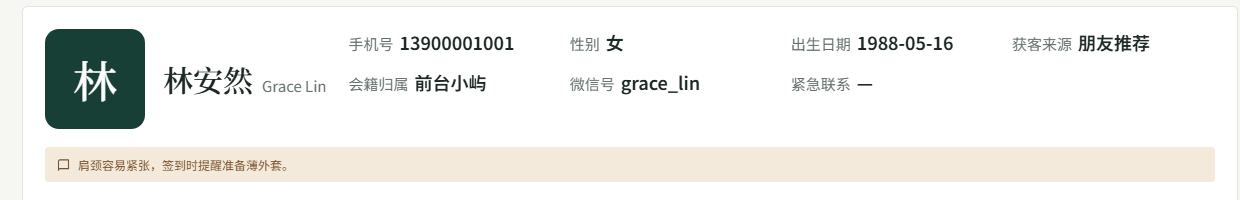
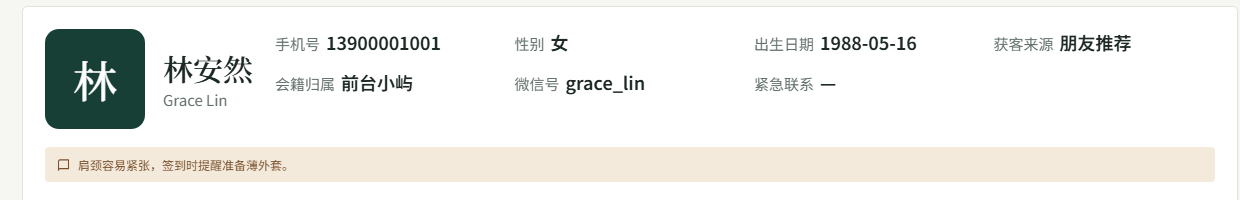
feat: 会员档案头部英文名改到中文名下方
- `.profile-head h2` 改为纵向排列，英文名从中文名右侧移到下方，标题栏宽度
  随之收窄，给右侧两行详细信息腾出更多空间。
- 同步更新操作指南、图文更新说明（含新截图）与两版更新日志、应用内更新日志。

diff --git a/public/help.html b/public/help.html
@@ -245,7 +245,7 @@
             <li><strong data-zh="上传会员照片" data-en="Add a member photo">上传会员照片</strong><span data-zh="会员档案上方点击“上传照片”即可为该会员拍照或选择图片上传，支持 PNG / JPG / WebP；照片会显示在档案头像、会员清单和前台签到名单上，便于快速认出会员。已有照片可随时删除。会员也能在会员端“我的 → 个人信息”里自行拍照上传，前台无需代劳。" data-en="Use “Upload photo” at the top of the profile to take or choose a picture (PNG / JPG / WebP). It appears on the avatar, in the member list and on the check-in roster. Photos can be removed at any time. Members can also upload their own photo under “Me → Profile”, so staff do not need to do it for them.">会员档案上方点击“上传照片”即可为该会员拍照或选择图片上传，支持 PNG / JPG / WebP；照片会显示在档案头像、会员清单和前台签到名单上，便于快速认出会员。已有照片可随时删除。会员也能在会员端“我的 → 个人信息”里自行拍照上传，前台无需代劳。</span></li>
             <li><strong data-zh="裁剪成头像的样子" data-en="Crop it to fit the avatar">裁剪成头像的样子</strong><span data-zh="选好图片后会弹出裁剪窗口：拖动照片调整位置，用滑块放大或缩小，方框里就是保存后头像的取景。确认后照片按方形保存，头像、会员清单与签到名单显示完全一致，不会把人脸或身体裁掉一半。" data-en="A crop window opens after you pick a picture: drag it to reposition and use the slider to zoom, and the frame shows exactly how the avatar will look. The photo is saved as a square, so the avatar, the member list and the check-in roster all show the same framing instead of cutting off a face.">选好图片后会弹出裁剪窗口：拖动照片调整位置，用滑块放大或缩小，方框里就是保存后头像的取景。确认后照片按方形保存，头像、会员清单与签到名单显示完全一致，不会把人脸或身体裁掉一半。</span></li>
             <li><strong data-zh="打开完整档案" data-en="Open the full profile">打开完整档案</strong><span data-zh="点击会员行查看资料、会员卡、预约历史、训练/评估记录和合同文件。编辑资料后记得保存。" data-en="Select a member to view details, cards, booking history, training/assessment records and documents. Save any profile edits.">点击会员行查看资料、会员卡、预约历史、训练/评估记录和合同文件。编辑资料后记得保存。</span></li>
-            <li><strong data-zh="档案顶部的信息分两行看" data-en="Read the header in two rows">档案顶部的信息分两行看</strong><span data-zh="档案顶部左侧是放大的照片与姓名，右侧是手机号、性别、出生日期、获客来源、会籍归属、微信号、紧急联系等详细信息，固定分两行排列，字号比普通表格大；窗口变窄时自动改为照片姓名在上、信息整行铺开。" data-en="The header shows an enlarged photo and name on the left; on the right, mobile, gender, birth date, source, advisor, WeChat and emergency contact are laid out in two rows with larger text. On a narrow screen the photo moves on top and the details span the full width.">档案顶部左侧是放大的照片与姓名，右侧是手机号、性别、出生日期、获客来源、会籍归属、微信号、紧急联系等详细信息，固定分两行排列，字号比普通表格大；窗口变窄时自动改为照片姓名在上、信息整行铺开。</span></li>
+            <li><strong data-zh="档案顶部的信息分两行看" data-en="Read the header in two rows">档案顶部的信息分两行看</strong><span data-zh="档案顶部左侧是放大的照片与姓名（中文名在上、英文名在下），右侧是手机号、性别、出生日期、获客来源、会籍归属、微信号、紧急联系等详细信息，固定分两行排列，字号比普通表格大；窗口变窄时自动改为照片姓名在上、信息整行铺开。" data-en="The header shows an enlarged photo and name on the left; on the right, mobile, gender, birth date, source, advisor, WeChat and emergency contact are laid out in two rows with larger text. On a narrow screen the photo moves on top and the details span the full width.">档案顶部左侧是放大的照片与姓名（中文名在上、英文名在下），右侧是手机号、性别、出生日期、获客来源、会籍归属、微信号、紧急联系等详细信息，固定分两行排列，字号比普通表格大；窗口变窄时自动改为照片姓名在上、信息整行铺开。</span></li>
           </ol>
           <h3 data-zh="2. 到店购卡并同时入账" data-en="2. Sell a card and post payment">2. 到店购卡并同时入账</h3>
           <ol class="steps">

diff --git a/src/lib/changelog.ts b/src/lib/changelog.ts
@@ -24,7 +24,7 @@ export const changelogReleases: ChangelogRelease[] = [
       { title: { zh: "评估与会员档案", en: "Assessments and member profiles" }, points: [
         { zh: "健康评估从私教中独立出来，后台新增“评估预约”，签到时只扣评估权益", en: "Health assessments now stand apart from private training; a new “Assessment bookings” page consumes only the assessment benefit" },
         { zh: "私教/评估签到名单里点会员名字可直接打开会员档案，不用再回会员列表里找", en: "Tap a name in the private/assessment roster to open that member’s profile right away" },
-        { zh: "会员档案头部放大：照片与姓名在左侧，详细信息在右侧分两行展示，字号更大更好读", en: "The member profile header is enlarged: photo and name on the left, details in two rows on the right" },
+        { zh: "会员档案头部放大：照片与姓名在左侧（英文名放在中文名下方），详细信息在右侧分两行展示，字号更大更好读", en: "The member profile header is enlarged: photo and name on the left with the English name below the Chinese one, details in two rows on the right" },
         { zh: "常用颜色补全，去掉点不开的“更多颜色”，改为提示点击左边色块选择", en: "Common colours are completed; the broken “more colours” button is replaced by a hint to tap the swatches" },
       ] },
       { title: { zh: "入账方式与通知", en: "Revenue options and notices" }, points: [

diff --git a/public/changelog-details.html b/public/changelog-details.html
@@ -232,7 +232,7 @@
         <article class="change">
           <div class="change-head"><span class="change-id">N5</span><h3>会员档案头部：照片姓名在左，详细信息分两行</h3><span class="change-tag">已完成</span></div>
           <ul>
-            <li>档案顶部左侧是放大的照片与姓名，右侧是手机号、性别、出生日期、获客来源、会籍归属、微信号、紧急联系等详细信息，固定分两行排列，字号比普通表格更大。</li>
+            <li>档案顶部左侧是放大的照片与姓名（中文名在上、英文名在下，不再左右并排），右侧是手机号、性别、出生日期、获客来源、会籍归属、微信号、紧急联系等详细信息，固定分两行排列，字号比普通表格更大。</li>
             <li>窗口不够宽时自动改为照片姓名在上、信息整行铺开，手机号这类长内容不会被挤掉或截断。</li>
             <li>课程颜色补齐常用色，去掉点不开的「更多颜色」按钮，改为提示点击左边的色块直接选择。</li>
           </ul>

diff --git a/src/styles.css b/src/styles.css
@@ -479,7 +479,7 @@ textarea { resize: vertical; line-height: 1.7; }input[readonly] { background: #e
 /* 会员档案头部放大（后台档案抽屉）：照片与姓名在左，详细信息在右侧固定分两行，字号整体加大 */
 .member-drawer .profile-summary { grid-template-columns: max-content minmax(0, 1fr); align-items: start; gap: 18px 22px; padding: 22px; }
 .profile-head { gap: 18px; }
-.profile-head h2 { font-size: 30px; }
+.profile-head h2 { display: flex; flex-direction: column; align-items: flex-start; gap: 2px; font-size: 30px; }
 .profile-head h2 small { font-size: 15px; }
 .profile-head .profile-avatar { width: 100px; height: 100px; border-radius: 14px; font-size: 44px; }
 .profile-head .profile-avatar-photo { width: 100px; height: 100px; border-radius: 14px; }

diff --git a/docs/CHANGELOG_DEVELOPER.md b/docs/CHANGELOG_DEVELOPER.md
@@ -915,7 +915,7 @@
 
 - `BookingsPage` 支持 `assessment` 路由类型：课程查询用 `course_type=assessment`，签到只匹配卡权益里的评估项，避免误扣私教次数；新增「评估预约」侧边栏入口与 `/admin/bookings/assessment` 路由（`/admin/schedule/assessment` 旧路径重定向）。
 - 私教/评估名单中的会员名改为按钮，点击直接打开 `MemberProfileDrawer`（可同时编辑姓名、英文名、手机号、性别、生日、备注，保存后刷新名单）。
-- `MemberProfileDrawer` 档案头部样式整体放大（照片 96px、标题 30px、事实项最小列宽 190px，auto-fit 自动折行）；后续按需求二次优化为「照片与姓名在左（100px 头像 / 30px 标题）、详细信息在右固定 4 列两行（标签 15px / 数值 18px，列间距 18px）」，`.profile-summary` 改为 `grid-template-columns: max-content minmax(0, 1fr)`，备注行 `grid-column: 1 / -1` 整行铺开；≤1200px 改为上下堆叠、≤960px 与 ≤700px 事实项降为 2 列，`.profile-facts > span` 允许换行兜底，长内容不会被截断。
+- `MemberProfileDrawer` 档案头部样式整体放大（照片 96px、标题 30px、事实项最小列宽 190px，auto-fit 自动折行）；后续按需求二次优化为「照片与姓名在左（100px 头像 / 30px 标题）、详细信息在右固定 4 列两行（标签 15px / 数值 18px，列间距 18px）」，`.profile-summary` 改为 `grid-template-columns: max-content minmax(0, 1fr)`，备注行 `grid-column: 1 / -1` 整行铺开；≤1200px 改为上下堆叠、≤960px 与 ≤700px 事实项降为 2 列，`.profile-facts > span` 允许换行兜底，长内容不会被截断。`.profile-head h2` 再改为纵向排列（`flex-direction: column`），英文名改到中文名下方，标题栏宽度随之收窄。
 
 ### 3. 购卡与升卡的入账口径可逐单选择
 

diff --git a/docs/CHANGELOG_CLIENT.md b/docs/CHANGELOG_CLIENT.md
@@ -26,7 +26,7 @@
 
 ### 会员档案与配色细节
 
-- 会员档案头部<b>照片与姓名放在左侧并整体放大</b>，<b>详细信息在右侧分两行排列</b>（手机号、性别、出生日期、获客来源、会籍归属、微信号、紧急联系），字号比普通表格更大；窗口变窄时自动改成照片姓名在上、信息整行铺开。
+- 会员档案头部<b>照片与姓名放在左侧并整体放大</b>（中文名在上、英文名在下），<b>详细信息在右侧分两行排列</b>（手机号、性别、出生日期、获客来源、会籍归属、微信号、紧急联系），字号比普通表格更大；窗口变窄时自动改成照片姓名在上、信息整行铺开。
 - 常用颜色<b>补全</b>，去掉点不开的「更多颜色」，改为提示<b>点击左边的色块</b>直接选择。
 
 ### 购卡与升卡可以自己选入账方式
